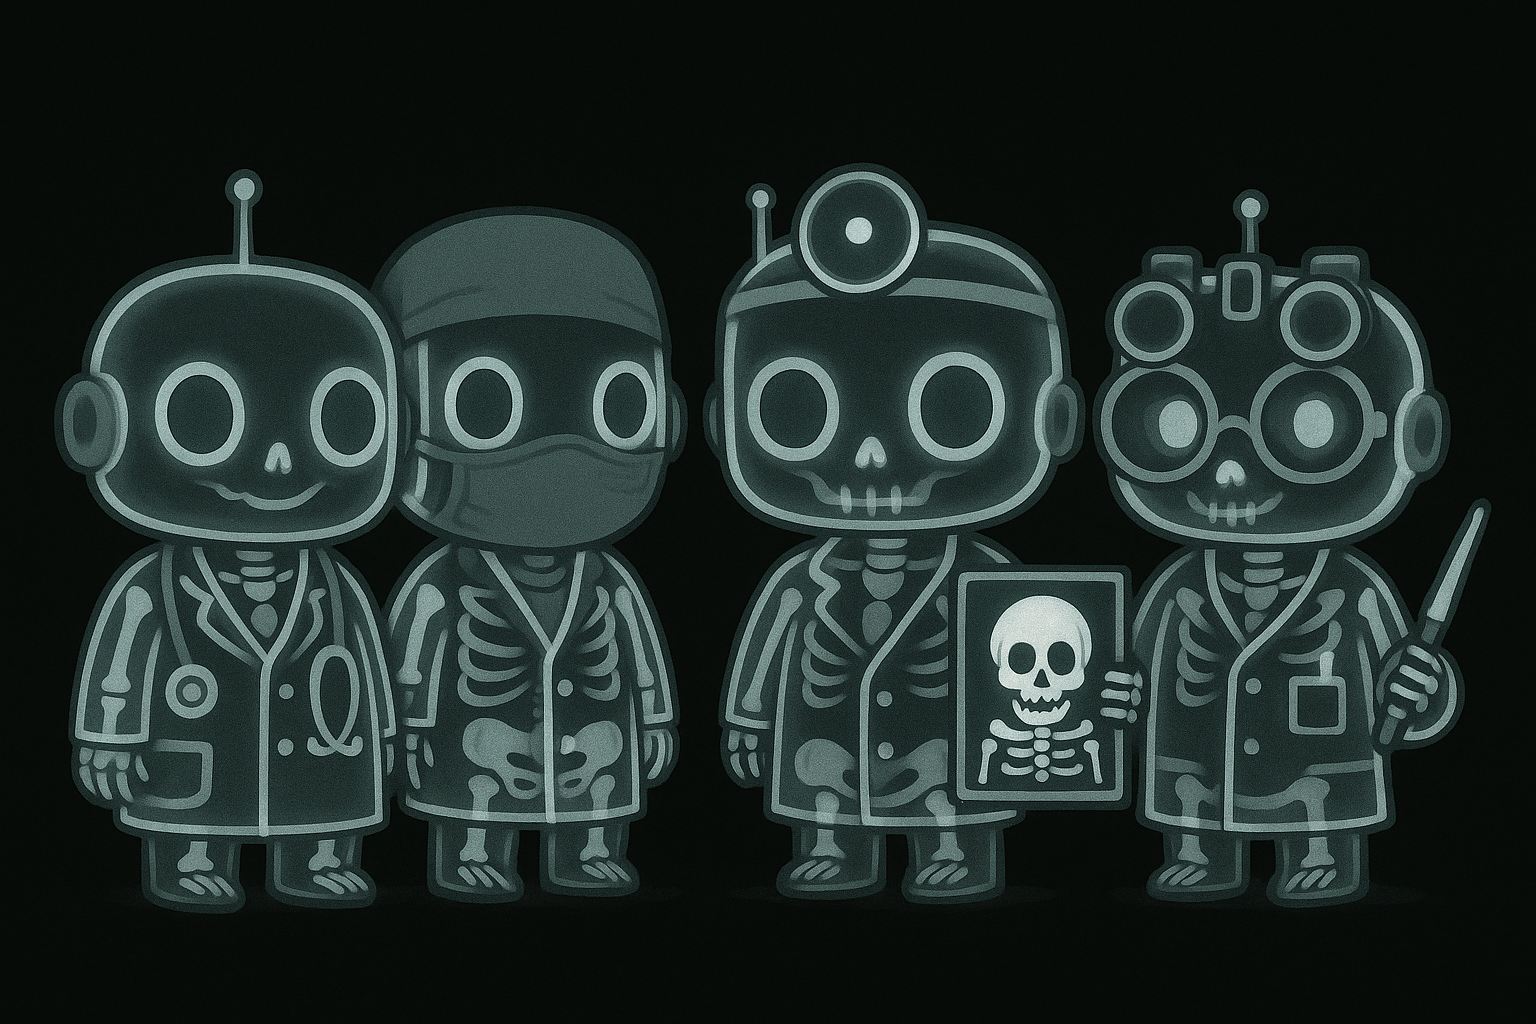
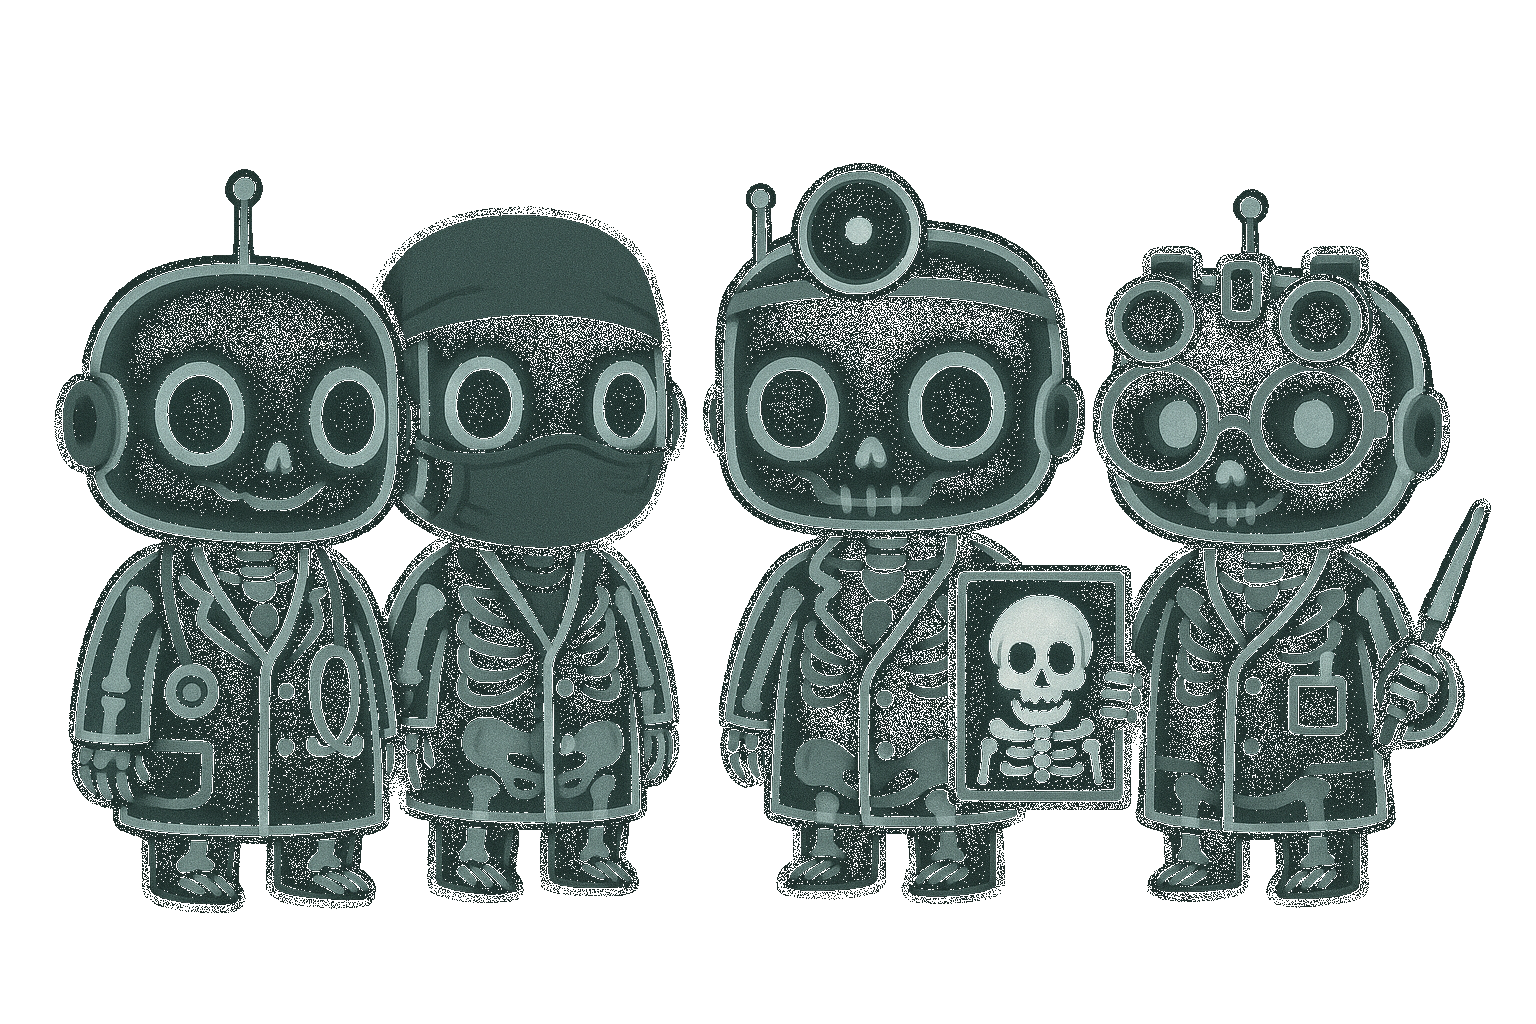
add: medical_agent analysis prompt

diff --git a/pages/Medical_Image_Analysis.py b/pages/Medical_Image_Analysis.py
@@ -155,6 +155,10 @@ def main():
                             f"Analyze this medical image considering the following context: {additional_info}"
                             if additional_info
                             else "Analyze this medical image and provide detailed findings."
+                            + "\n\n"
+                            + "If you are not sure about the diagnosis, please provide a possible diagnosis."
+                            + "\n\n"
+                            + "Answer in the language of the user."
                         )
                         response = agent.run(prompt, images=[agno_image])
                         st.markdown("### :material/diagnosis: Analysis Results")

diff --git a/config.py b/config.py
@@ -27,11 +27,11 @@ class Config:
 
     MASTER_AGENT_ICON = ASSETS_DIR / "godsinwhite_team.png"
 
-    LOGO_TEXT_PATH = ASSETS_DIR / "godsinwhite_logo_text.png"
-    LOGO_ICON_PATH = ASSETS_DIR / "godsinwhite_logo.png"
-    LOGO_TEAM_PATH = ASSETS_DIR / "godsinwhite_team.png"
+    LOGO_TEXT_PATH = ASSETS_DIR / "godsinwhite_logo_text_light.png"
+    LOGO_ICON_PATH = ASSETS_DIR / "godsinwhite_logo_light.png"
+    LOGO_TEAM_PATH = ASSETS_DIR / "godsinwhite_team_light.png"
 
-    LEAD_AGENT_NAME = "Lead Agent"
+    LEAD_AGENT_NAME = "Chief Doctor"
     TEAM_AGENT_NAME = "Specialists"
 
 # Create a single instance to be imported by other modules
